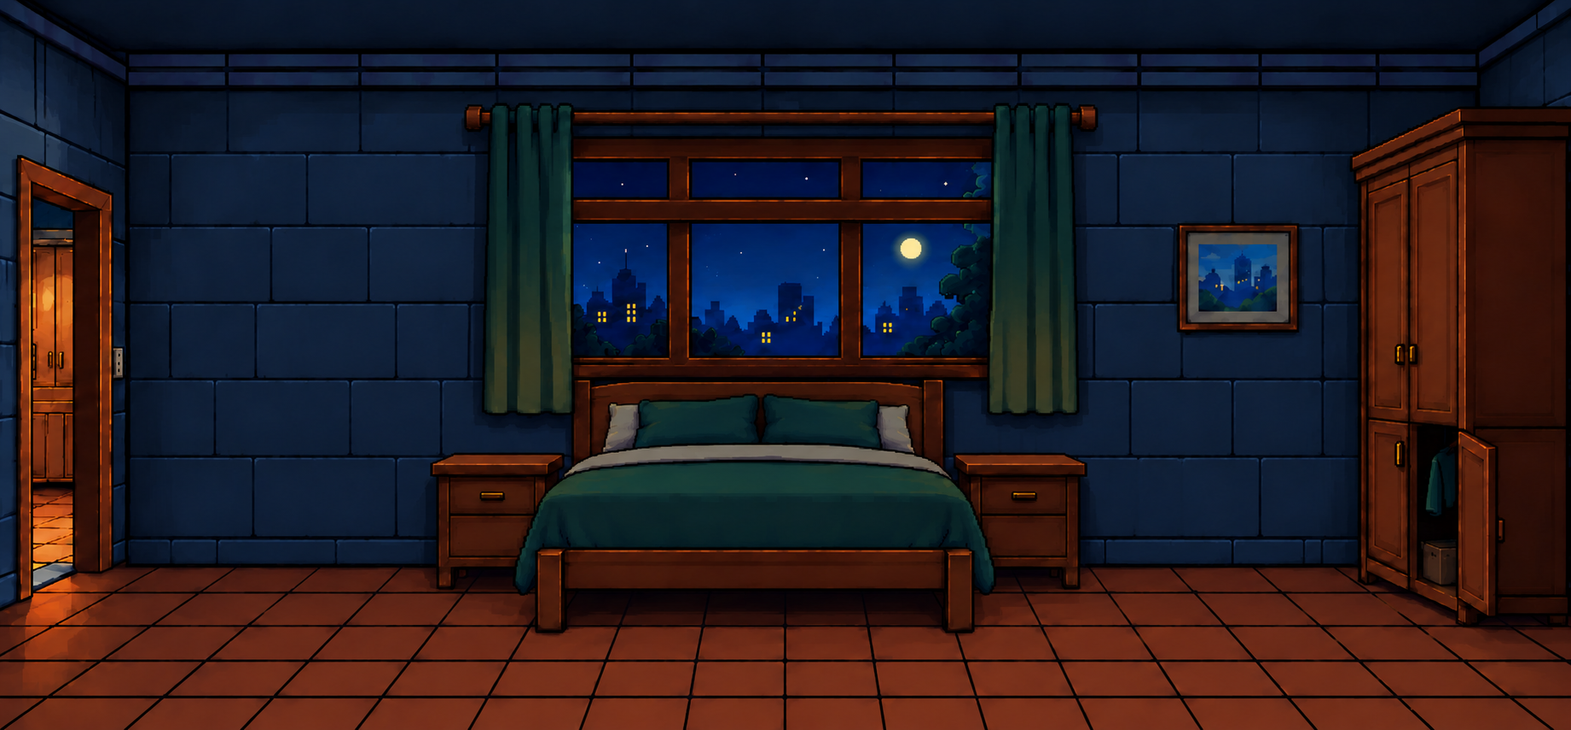
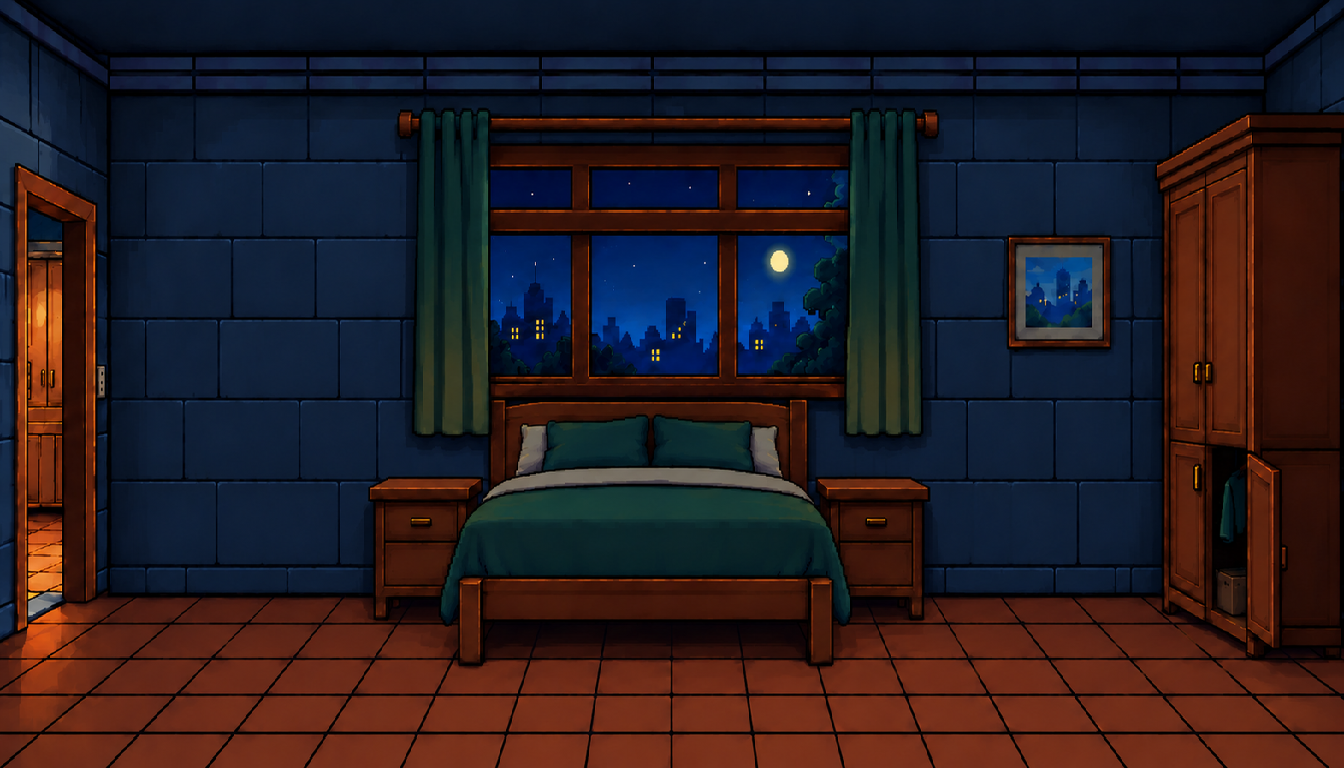
se modifica el tamaño de la habitacion y se arregla el tamaño de los objetos

diff --git a/GameProyect/Nivelhabitacion.cpp b/GameProyect/Nivelhabitacion.cpp
@@ -4,6 +4,7 @@
 NivelHabitacion::NivelHabitacion()
 {
     cargarFondo("images/4-Habitacion/habitacion.png");
+    setAnchoNivel(static_cast<float>(ANCHO_VENTANA));
 
     if (!cargarMusicaFondo("music/EnPartida/Habitacion/LoopNivelHabitacion.wav", 22.f))
     {
@@ -12,8 +13,8 @@ NivelHabitacion::NivelHabitacion()
 
     /// cargar aca la camara de seguridad
     /// zona escondite arriba del placard, aca iria la camara
-    agregarSuperficie(sf::FloatRect(1390.f, 120.f, 200.f, 5.f));
-    agregarZonaEscondite(sf::FloatRect(1400.f, 5.f, 200.f, 125.f));
+    agregarSuperficie(sf::FloatRect(1200.f, 138.f, 80.f, 8.f));
+    agregarZonaEscondite(sf::FloatRect(1180.f, 18.f, 100.f, 128.f));
 
     /// Enemigo entra a la habitacion si esucha ruido
     agregarEnemigo(
@@ -29,96 +30,91 @@ NivelHabitacion::NivelHabitacion()
     /// mesa de cama y television con escondite
     agregarMueble(
         "images/4-Habitacion/muebles/mueble_tele_nocturno.png",
-        { 470.f, 530.f },
-        { 0.25f, 0.35f },
+        { 395.4f, 587.5f },
+        { 0.245f, 0.23f },
         sf::FloatRect(47.f, 237.f, 1975.f, 30.f)
     );
 
     agregarMueble(
         "images/4-Habitacion/muebles/tele_nocturna.png",
-        { 585.f, 435.f },
-        { 0.2f, 0.2f },
+        { 505.5f, 489.4f },
+        { 0.18f, 0.18f },
         sf::FloatRect(0.f, 0.f, 0.f, 0.f)
         );
-    agregarObjeto(
-        "images/4-Habitacion/objetos/control_remoto.png",
-        { 500.f, 590.f },
-        0.08f,
-        1,
-        "images/4-Habitacion/objetos/rotos/control_remoto_tirado.png",
-        "sound effects/objetos/golpeFruta.wav"
-    );
-    agregarZonaEscondite(sf::FloatRect(595.f, 445.f, 330.f, 185.f)); // zona escondite television
+
+    agregarZonaEscondite(sf::FloatRect(513.f, 500.f, 296.f, 144.f)); // zona escondite television
    
     /// 3 Estantes de la parte izquierda y sus objetos
 
     // agregarZonaEscondite(sf::FloatRect(330.f, 58.f, 140.f, 120.f)); // zona escondite estante de arriba
     agregarMueble(
         "images/4-Habitacion/muebles/soporte_planta_v2.png",
-        { 300.f, 105.f },
-        { 0.15f, 0.15f },
-        sf::FloatRect(300, 450.f, 815.f, 30.f)
+        { 108.3f, 121.6f },
+        { 0.11f, 0.11f },
+        sf::FloatRect(300.f, 416.f, 815.f, 30.f)
     );
+
     agregarObjeto("images/4-Habitacion/objetos/maceta_colgante.png",
-        { 397.f, 97.f }, 
-        0.13f, 
+        { 170.6f, 130.5f },
+        0.065f,
         2, 
         "images/4-Habitacion/objetos/rotos/maceta_colgante_rota.png", 
         "sound effects/objetos/golpeFruta.wav");
     //
     agregarMueble(
         "images/4-Habitacion/muebles/soporte_planta_v2.png",
-        { 130.f, 225.f },
-        { 0.15f, 0.15f },
-        sf::FloatRect(300, 450.f, 815.f, 30.f)
+        { 208.3f, 241.6f },
+        { 0.11f, 0.11f },
+        sf::FloatRect(300.f, 416.f, 815.f, 30.f)
     );
     agregarObjeto("images/4-Habitacion/objetos/maceta_Hojas_grandes.png",
-        { 158.f, 190.f },
-        0.1f,
+        { 246.2f, 216.6f },
+        0.065f,
         2,
         "images/4-Habitacion/objetos/rotos/maceta_hojas_grandes_rota.png",
         "sound effects/objetos/golpeFruta.wav");
+
     //
     agregarMueble(
         "images/4-Habitacion/muebles/soporte_planta_v2.png",
-        { 180.f, 375.f },
-        { 0.15f, 0.15f },
-        sf::FloatRect(300, 450.f, 815.f, 30.f)
+        { 128.3f, 391.6f },
+        { 0.11f, 0.11f },
+        sf::FloatRect(300.f, 416.f, 815.f, 30.f)
     );
     agregarObjeto(
         "images/4-Habitacion/objetos/cuadroFoto.png",
-        { 230.f , 393.f },
-        0.08f,
+        { 174.1f , 406.2f },
+        0.05f,
         1,
         "images/4-Habitacion/objetos/rotos/cuadroFotoRoto.png",
         "sound effects/objetos/vidrioRoto.wav"
     );
     
     /// Mesa de luz derecha
-    agregarSuperficie(sf::FloatRect(969.f, 461.f, 121.f, 5.f));
+    agregarSuperficie(sf::FloatRect(817.f, 480.f, 113.f, 8.f));
     agregarObjeto(
         "images/4-Habitacion/objetos/vaso_agua.png",
-        { 962.f , 432.f },
-        0.025f,
+        { 828.5f , 460.4f },
+        0.0175f,
         1,
         "images/4-Habitacion/objetos/rotos/vaso_roto.png",
         "sound effects/objetos/vidrioRoto.wav"
     );
     agregarObjeto(
         "images/4-Habitacion/objetos/lampara_derecha_apagada.png",
-        { 1010.f , 361.f },
-        0.12f,
+        { 870.1f , 419.2f },
+        0.075f,
         2,
         "images/4-Habitacion/objetos/rotos/lampara_derecha_rota.png",
         "sound effects/objetos/GolpeMetal.wav"
     );
 
     /// Mesa de luz izquierda
-    agregarSuperficie(sf::FloatRect(435.f, 461.f, 121.f, 5.f)); 
+    agregarSuperficie(sf::FloatRect(369.f, 480.f, 113.f, 8.f));
     agregarObjeto(
         "images/4-Habitacion/objetos/lampara_izquierda_apagada.png",
-        { 432.f , 361.f },
-        0.12f,
+        { 401.3f , 418.1f },
+        0.075f,
         2,
         "images/4-Habitacion/objetos/rotos/lampara_izquierda_rota.png",
         "sound effects/objetos/GolpeMetal.wav"
@@ -126,15 +122,15 @@ NivelHabitacion::NivelHabitacion()
 
     /// Estante derecho
     agregarMueble(
-        "images/4-Habitacion/muebles/soporte_planta.png",
-        { 1150.f, 308.f },
-        { 0.15f, 0.15f },
-        sf::FloatRect(300, 450.f, 815.f, 30.f)
+        "images/4-Habitacion/muebles/soporte_planta_v2.png",
+        { 923.3f, 314.2f },
+        { 0.11f, 0.11f },
+        sf::FloatRect(300.f, 416.f, 815.f, 30.f)
     );
     agregarObjeto(
         "images/4-Habitacion/objetos/reloj_despertador.png",
-        { 1240.f , 317.f },
-        0.08f,
+        { 966.6f , 334.3f },
+        0.034f,
         1,
         "images/4-Habitacion/objetos/rotos/reloj_despertador_roto.png",
         "sound effects/objetos/GolpeMetal.wav"
@@ -143,8 +139,8 @@ NivelHabitacion::NivelHabitacion()
     /// canasto de ropa
     agregarObjeto(
         "images/4-Habitacion/objetos/canasto_ropa.png",
-        { 1200.f , 605.f },
-        0.13f,
+        { 1125.7f , 614.6f },
+        0.145f,
         2,
         "images/4-Habitacion/objetos/rotos/canasto_ropa_tirado.png",
         "sound effects/objetos/GolpeFruta.wav"
